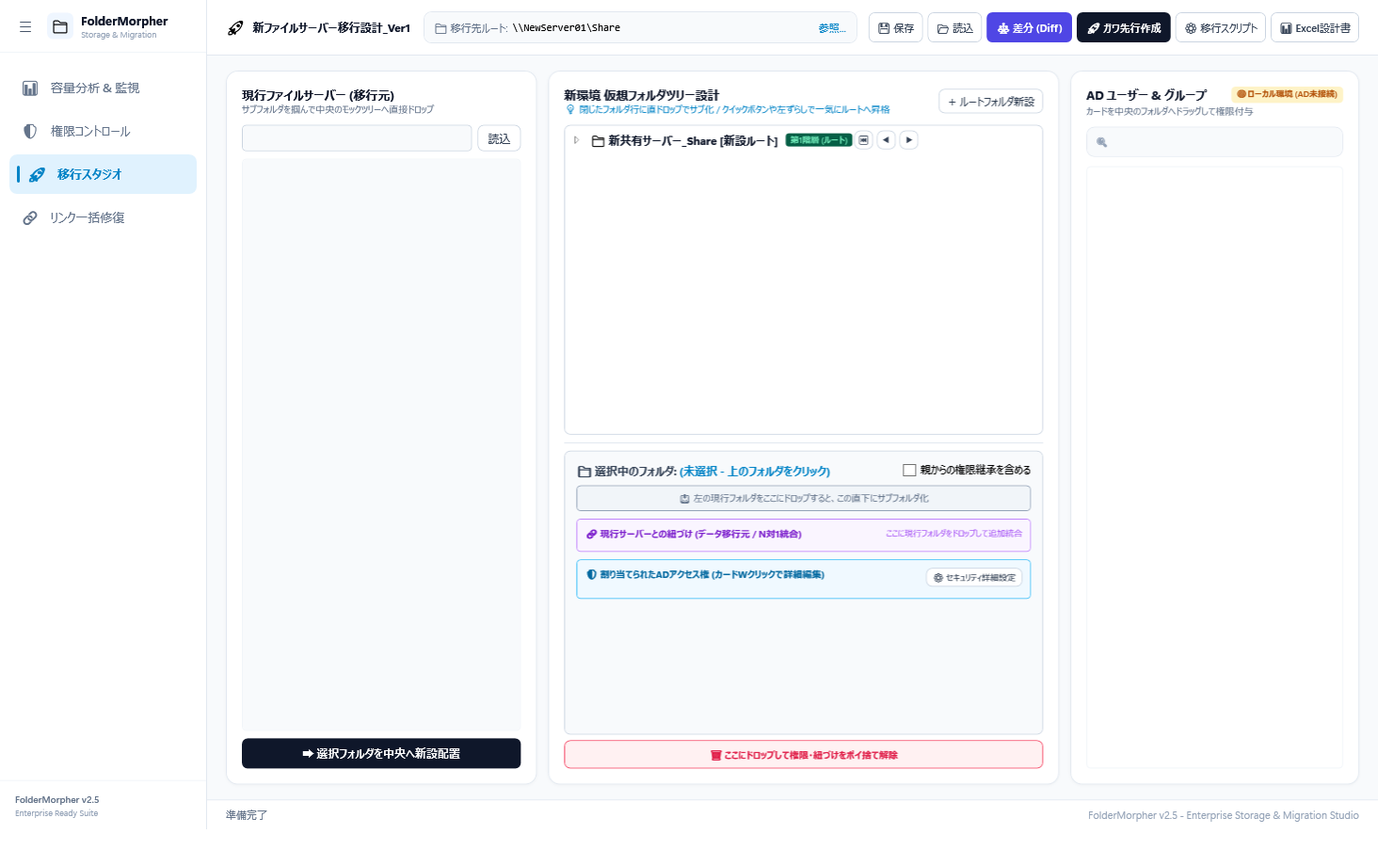
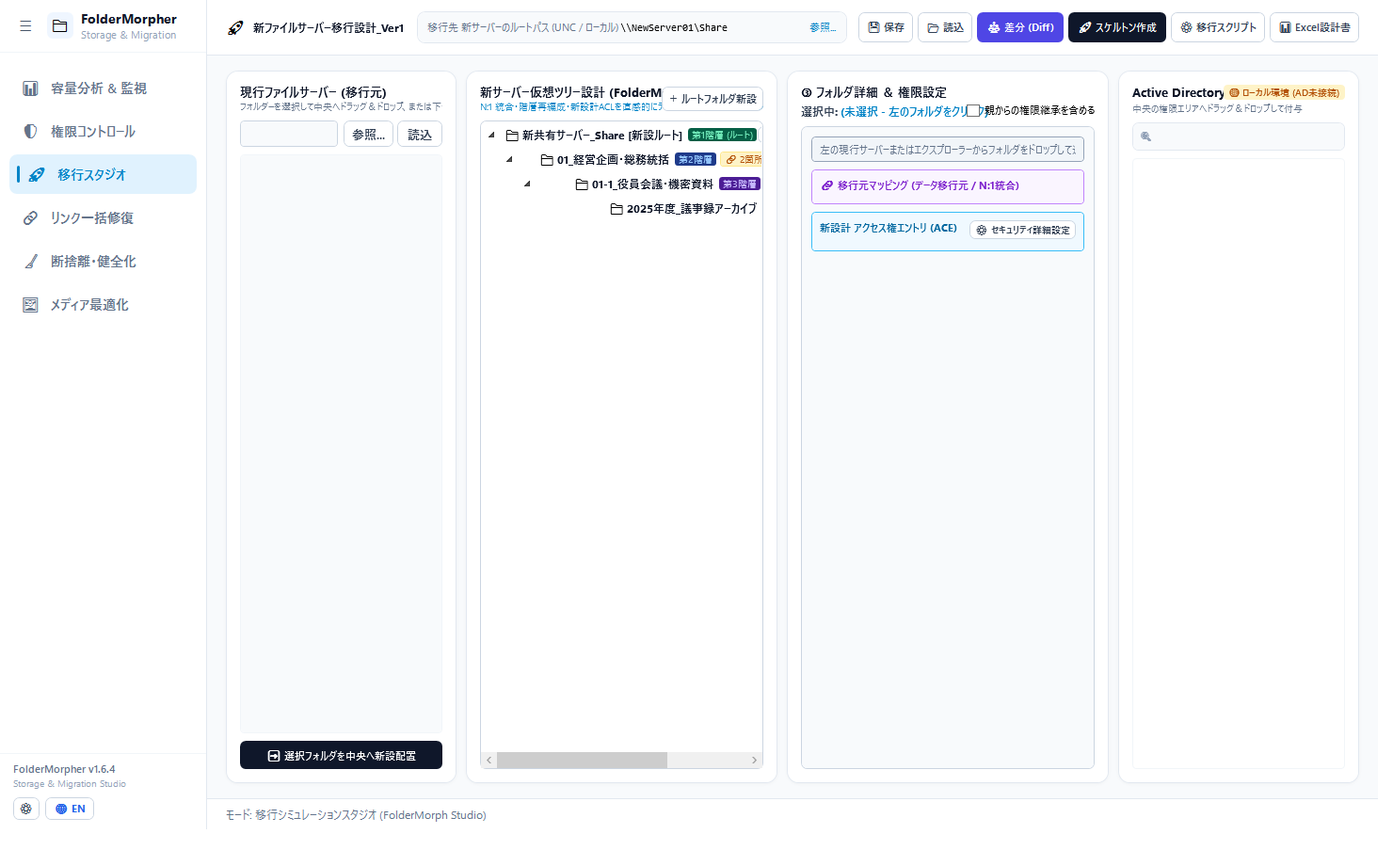
docs: Synchronize EN/JA README with v1.6.5 changes, philosophy & retake all 6 tab snapshots

diff --git a/README_JA.md b/README_JA.md
@@ -2,12 +2,12 @@
 ### (IT Admin Storage, Audit & Migration Studio)
 
 > **Windows ファイルサーバーの容量分析・NTFSアクセス権監査・フォルダ再編移行を 1 本で完結。**  
-> 大容量ファイルサーバーの日常監視から、組織改編・部署名リネーム、新環境への仮想ツリー設計、実環境NTFSアクセス権管理、切断ショートカット・Officeマクロ一括修復、写真の視覚的ロスレス90%軽量化までを**1本の単一EXE（インストール不要）**で完結させるプロフェッショナル向けGUIスタジオです。
+> 大容量ファイルサーバーの0秒ツリー監視から、組織改編・部署名リネーム、新環境への仮想ツリー設計、実環境NTFSアクセス権管理、切断ショートカット・Officeマクロ一括修復、写真の最大90%不可逆軽量化までを**1本の単一EXE（インストール不要）**で完結させるプロフェッショナル向けGUIスタジオです。
 
 ![Platform](https://img.shields.io/badge/Platform-Windows%2010%20%2F%2011%20%2F%20Server-blue.svg)
 ![Framework](https://img.shields.io/badge/.NET-8.0%20(Self--Contained)-purple.svg)
-![UI](https://img.shields.io/badge/UI-Fluent%20Light%20Design-0ea5e9.svg)
-![Architecture](https://img.shields.io/badge/License-Free%20Preview-emerald.svg)
+![UI](https://img.shields.io/badge/UI-Modern%20Fluent%20Design-0ea5e9.svg)
+![Architecture](https://img.shields.io/badge/Philosophy-Plan%20First%20%26%203--Stage%20Rocket-emerald.svg)
 
 🌐 **Language**: [🇺🇸 English (README.md)](README.md) | **[🇯🇵 日本語]**
 
@@ -25,39 +25,52 @@
 
 ---
 
+## 🛡 プロダクト操作哲学：二元論 ＆ 3段ロケット原則
+
+FolderMorpher は、管理者の探索スピードを最大限に引き上げつつ、ディスク書き込み時の安全性を100%保証する「二元論アーキテクチャ」を採用しています：
+
+| 区分 | 対象機能 | UX挙動 |
+| :--- | :--- | :--- |
+| **観測・生成系**<br>*(覗く・出力するだけ)* | • 容量スキャン ＆ 0秒ツリー参照<br>• AD逆引き実効アクセス権監査<br>• 休眠・重複ファイル棚卸し<br>• Excel / CSV 台帳出力<br>• 安全退避バッチ (.bat) ＆ GPOスクリプト (.ps1) 出力 | **ノーガード・即時実行**<br>(確認ダイアログやDry-runを挟まず、探索テンポを一切阻害しない) |
+| **介入系**<br>*(ディスク実態を変更する)* | • **権限コントロール（Live ACL直接変更）**<br>• **スケルトン先行展開（空フォルダ＋ACL作成）**<br>• **ショートカット一括修復（.lnk直接書き換え）**<br>• **メディア最適化（写真直接上書き縮小）** | **Plan First（3段ロケット）**<br>`[ チェック ]` ➔ モーダル **`⚖ 変更点`**（Before/After事前確認） ➔ `[ 適用 ]` ➔ カーネル実態 **Verify（自動検証）** |
+
+---
+
 ## 🌟 6大コア機能
 
-### 1. 📊 容量分析 & 監視 (Storage Explorer - TreeSizeスタイル)
+### 1. 📊 容量分析 & 監視 (Storage Explorer - 0秒ツリーキャッシュ)
 ![Tab 0: 容量分析](docs/screenshots/tab0_storage.png)
-- **⚡ 超高速NTFS MFT直読みスキャン & 3段ハイブリッド自動フォールバック (Experimental / 実験的機能)**: 管理者権限でのローカルNTFSドライブ（またはファイルサーバー上での直接実行時）において、ディスク管理領域（`$MFT`）を直接バイナリ解析し、数百万ファイルを数秒で一括インデックス。完全読み取り専用（`GENERIC_READ`・排他ロックなし）で業務影響ゼロ。UNC共有や一般権限時は自動で通常並行スキャンへシームレスにフォールバック。
+- **⚡ 0秒ツリーキャッシュ ＆ バックグラウンド自動差分スキャン**: スキャン開始時、前回キャッシュがあれば「0秒」で前回のツリー構造を即座に全展開。バックグラウンドで最新走査を実行し、容量が変化したフォルダに増減バッジ（`▲ +2.4GB` / `▼ -500MB`）を自動付与。
+- **⚡ 超高速NTFS MFT直読みスキャン & 3段ハイブリッド自動フォールバック**: 管理者権限でのローカルNTFSドライブ（またはファイルサーバー直接実行時）において、ディスク管理領域（`$MFT`）を直接バイナリ解析し、数百万ファイルを数秒で一括インデックス。完全読み取り専用（`GENERIC_READ`・排他ロックなし）。UNC共有や一般権限時は自動で通常並行スキャンへシームレスにフォールバック。
 - **全体占有率メーター（二重加算防止）**: スキャンルート全体（100%）に対する絶対シェアと、右ペインでの選択フォルダ直下シェアを完全分離。
 - **Top 10 ランキング ＆ エクスプローラー直行**: 肥大化の元凶ファイルを特定し、ダブルクリックで対象ファイルを青く選択した状態でエクスプローラーを即時起動。
 - **マルチタブ同時スキャン**: 複数ドライブや別サーバー（UNC共有 `\\server\share`）を並行監視。
 
 ---
 
-### 2. 🛡 権限コントロール & SDDLロールバック (Live ACL)
+### 2. 🛡 権限コントロール & 逆引き監査 (Live ACL Studio)
 ![Tab 1: Live ACL](docs/screenshots/tab1_liveacl.png)
-- **実環境NTFS権限の直接編集**: Active Directoryのアカウント・グループをドラッグ＆ドロップで追加、ゴミ箱ゾーンへポイ捨て削除。
-- **🔍 ユーザー/グループ逆引き権限インスペクター（Canonical DACL評価・多重入れ子ADグループ完全対応）**: 対象ユーザーやセキュリティグループを選択し、ファイルサーバー全体を逆引きスキャン（探索階層は無制限/指定可能）。グループの多重ネスト（`LDAP_MATCHING_RULE_IN_CHAIN` / tokenGroups による深い階層所属）を本人ID汚染なしで完全解決。Windowsの正規DACL評価順序（子の明示的Allowは親の継承Denyより優先）を忠実に再現し、そのユーザーが「実際にアクセスできる全フォルダー」と権限種別（フルコン/変更/読取）、付与経路（直接 or 経由グループ＋入れ子深度）を完全可視化。UNC共有アクセス時のSMB共有注意喚起、エクスプローラー直行ハイパーリンク付きExcel監査台帳を1クリック生成。
-- **Windows詳細セキュリティ完全準拠**: 基本6項目 ＋ 高度なアクセス許可14項目（走査/属性/所有権など）を完全双方向連動で編集（Allow および Deny ルールを標準ACL評価順序で正しくサポート）。
-- **SDDL直前自動スナップショット（即座に復元）**: 適用直前の権限状態を自動退避。「↩ バックアップ復元」でいつでも直前の状態へ原子的ロールバック可能。
-- **アクセス権マトリクス台帳CSV出力**: 監査用の権限台帳を1クリック出力。
+- **`AclChangePlan` パイプライン貫通**: 差分プレビューと本番適用で同一の実行計画インスタンスを貫通させ、PreviewとCommitのロジック乖離を物理的に根絶。
+- **縦一列 2行カードUI**: 1行目にアカウント表示名を横幅100%開放、2行目にアカウントID、権限、適用先、🔒継承バッジを整列。ADパレットからのD&D追加、枠外ドロップによる直感的解除を完備。
+- **継承変更警告バナー**: 継承を無効化する際、親から明示ACEへ昇格・保持される件数を明示し、重大なアクセス権遮断事故を事前警告。
+- **セマンティック正常性検証 (True Verify)**: 適用直後、OSカーネルから再取得した実態ACEと期待値を多重集合突合し、完全一致（`✅ 正常`）を自動検証。
+- **🔍 ユーザー/グループ逆引き権限インスペクター（Canonical DACL評価・多重入れ子ADグループ完全対応）**: 対象ユーザーやセキュリティグループを選択し、ファイルサーバー全体を逆引きスキャン（探索階層は無制限/指定可能）。グループの多重ネスト（`LDAP_MATCHING_RULE_IN_CHAIN` / tokenGroups）を本人ID汚染なしで完全解決。Windowsの正規DACL評価順序（子の明示的Allowは親の継承Denyより優先）を忠実に再現し、実際にアクセスできる全フォルダーと権限種別、付与経路を可視化。ハイパーリンク付きExcel監査台帳を1クリック生成。
+- **SDDL直前自動スナップショット（即座に復元）**: 適用直前の完全なDACL SDDLを自動退避。「↩ バックアップ復元」でいつでも直前の状態へ原子的ロールバック可能。
 
 ---
 
-### 3. 🚀 移行スタジオ & ガワ先行展開 (Simulation Studio)
+### 3. 🚀 移行スタジオ & スケルトン先行展開 (Simulation Studio)
 ![Tab 2: 移行スタジオ](docs/screenshots/tab2_simulation.png)
-- **仮想ツリー設計 ＆ N:1統合マッピング**: 「旧営業A」「旧営業B」を新環境の「営業第一部」へまとめる統合ツリーを視覚的に設計。
-- **ガワ先行作成（スケルトン一括展開）**: 大容量データ転送の前に、空フォルダ構造と設計済みNTFS ACLだけを新サーバーに先行作成。
-- **Diffインスペクター**: 移行前後（Before/After）の変化点（新規・移動・統合・ACL差分）をカラーバッジでレビュー。
-- **Robocopy自動生成**: 最適化されたマルチスレッド移行バッチ（`/MT:16 /COPYALL`）を1クリック生成。
+- **仮想ツリー設計 ＆ N:1統合マッピング**: 「旧営業A」「旧営業B」を新環境の「営業第一部」へまとめる統合ツリーを視覚的に設計。階層フォルダの再帰的D&DとACL自動引き継ぎに対応。
+- **スケルトン先行展開（ガワ先行作成）**: 大容量データ転送の前に、空フォルダ構造と設計済みNTFS ACLだけを新サーバーに先行作成。モーダル **`⚖ 変更点`** で差分を確認後に `[ ⚡ 適用 ]` し、実在Verify。
+- **Diffインスペクター**: 移行前後（Before/After）の変化点（新規・移動・統合・ACL差分）をカラーバッジでレビューし、Excel出力。
+- **Robocopyモード分離**: 「新設計ACL維持モード（`/COPY:DAT`）」と「旧環境ACL完全維持モード（`/COPYALL`）」を明示分離し、新設計ACLの上書き破壊を防止。
 
 ---
 
 ### 4. 🔗 リンク一括修復 ＆ GPOスクリプト生成 (LinkFixer)
 ![Tab 3: リンク一括修復](docs/screenshots/tab3_linkfix.png)
-- **切断ショートカット（`.lnk`）の一括救済**: サーバー移行や部署名変更で切断されたショートカットを新パスへ自動書き換え（`.bak` 自動バックアップ）。
+- **切断ショートカット（`.lnk`）の一括直接修復**: モーダル **`⚖ 変更点`** で置換対象と新旧パスを確認し、`.bak` 安全バックアップを自動生成しながら直接書き換え ➔ 実態Verify。
 - **Office内部リンク・マクロ修復**: Office COMを起動せず、OpenXML（.xlsx/.xlsm）内部XMLを直接高速走査。外部ブック参照数式やワークシートリンクを安全置換、VBA内の旧UNCパスを検知・警告（`~$` ロック検知付き）。
 - **GPOログオンスクリプト生成（`.ps1`）**: 全社PCのデスクトップ・マイドキュメント等のショートカットをサイレント一括修復する管理者用スクリプトをワンクリック生成。
 
@@ -66,25 +79,27 @@
 ### 5. 🧹 断捨離・健全化 (Audit & Hygiene - 大容量ストレージ監査)
 ![Tab 4: 断捨離・健全化](docs/screenshots/tab4_audit.png)
 - **重複ファイル・休眠ファイルの徹底抽出**:
-  - **重複ファイル検出**: ファイルサイズ絞り込み ➔ SHA256ハッシュ判定による完全一致判定。無駄容量を算出。
+  - **重複ファイル検出**: ファイルサイズ絞り込み ➔ SHA256暗号学的ハッシュによる完全一致判定。無駄容量を算出。
   - **休眠ファイル抽出**: 3年以上更新されていない放置データ（最終更新日時基準）を抽出。
   - **パス長（260字超）＆ 移行禁則文字チェック**: クラウド（SharePoint/Box）やWindows移行でエラーになる記号や長大パスを事前洗い出し。
-- **安全第一の運用ポリシー**: ツールによる自動削除は行わず、各部署提出用の**「棚卸し台帳（Excel/CSV）」**および**「安全退避（Archive移動）バッチ」**の生成に留めます（※重複原本は必ず現場に残す安全保護ガード付き）。
+- **スマート一括選択 ＆ 原本候補保護聖域**: 重複原本（`IsOriginalCandidate`）を厳格に保護しながらコピーファイルのみを一括選択。
+- **原本保護安全ガード付き物理完全削除**: チェックされた不要ファイルを直接完全削除（読み取り専用属性解除・原本候補除外警告ダイアログ付き）。
+- **安全第一の運用ポリシー**: 各部署提出用の**「棚卸し台帳（Excel/CSV）」**および**「安全退避（Archive移動）バッチ」**を1クリック生成。
 
 ---
 
 ### 6. 🖼 メディア・オプティマイザ (Media Optimizer)
 ![Tab 5: メディア最適化](docs/screenshots/tab5_media.png)
 - **聖域保護（自動スキップ）**: `_Master`, `印刷用`, `RAW`, `.psd`, `.ai` などのフォルダ名・プロ用拡張子は自動スキップ。
-- **写真の視覚的ロスレス軽量化**: スマホ写真（JPEG）を長辺2560px・85%品質で直接上書き軽量化（**約90%の容量削減**）。PNGはアルファ透過を100%保持した最適化を実行。撮影日時・更新日時・作成日時・Exif・回転情報を可能な限り保持。
+- **写真・画像の直接上書き最適化**: スマホ写真（JPEG）を長辺2560px・85%品質で直接上書き軽量化（**約90%の容量削減**）。PNGはアルファ透過を100%保持した最適化を実行。撮影日時・更新日時・作成日時・Exif・回転情報を完全保持。
+- **事前チェック ＆ 実態Verify**: モーダル **`⚖ 変更点`** で対象写真と聖域除外数を確認して適用、削減容量を自動検証。
 - **巨大モンスター動画Topランキング**: ギガ単位を消費する動画ファイルを容量順に抽出し、**夜間GPUエンコード（H.265 / NVENC / QSV）バッチ**を出力。
-
 
 ---
 
 ### 7. 📊 エグゼクティブExcelレポート出力
 - PCにOffice/Excelがインストールされていない環境でも動作（ClosedXMLベース）。
-- エグゼクティブサマリー、KPIカード、課題別集計、オートフィルター付き。
+- エグゼクティブサマリー、KPIカード、課題別集計、オートフィルター、モダンボーダーレスデザイン。
 - **完全パスのセルをクリックすると、エクスプローラーでそのフォルダが直接開く `file:///` ハイパーリンクを自動埋め込み**。
 
 ---
@@ -103,12 +118,13 @@
 
 ## 🛠 技術スタック & アーキテクチャ
 
-- **言語 / ランタイム**: C# 12 / .NET 8.0 Windows Desktop SDK (Self-Contained)
-- **UIフレームワーク**: WPF (Windows Presentation Foundation) / Fluent Design
+- **言語 / ランタイム**: C# 12 / .NET 8.0 Windows Desktop SDK (Self-Contained 単一実行ファイル)
+- **UIフレームワーク**: WPF (Windows Presentation Foundation) / Modern Fluent Light Design
 - **ディレクトリサービス**: `System.DirectoryServices` (LDAP / ADSI)
 - **セキュリティ**: `System.Security.AccessControl` (NTFS ACL / SDDL)
 - **Excel生成**: `ClosedXML` (OpenXML直接バイナリ生成)
 - **画像エンジン**: WIC (Windows Imaging Component / ハードウェアアクセラレーション)
+- **品質保証ゲート**: 全24項目のヘッドレス自動回帰テストスイート（`--test-regression`）による常時検証。
 - **アーキテクチャ規約**: [`AGENTS.md`](AGENTS.md) にてサービス層とUI層を疎結合に保つADR（設計判断）を厳格に管理。
 
 ---
@@ -140,5 +156,4 @@
 
 ## 📄 免責事項 (Disclaimer)
 
-FolderMorpher はファイルサーバーの調査・移行・管理を支援する管理者向けユーティリティです。安全設計（SDDL自動ロールバック復元、`.bak` バックアップ生成、ステージング退避移動など）を実装していますが、本ソフトウェアは現状有姿（AS IS）で提供され、いかなる保証も伴いません。本番ファイルサーバーで一括操作を実行する際は、必ず事前にバックアップを確保した上でご活用ください。
-
+FolderMorpher はファイルサーバーの調査・移行・管理を支援する管理者向けユーティリティです。ディスク実態を変更するすべての操作には、Plan-First 3段ロケット原則（「`⚖ 変更点`」モーダル事前確認、SDDL自動ロールバック復元、`.bak` バックアップ生成、原本保護安全ガードなど）を厳格に実装していますが、本ソフトウェアは現状有姿（AS IS）で提供され、いかなる保証も伴いません。本番ファイルサーバーで一括操作を実行する際は、必ず事前にバックアップを確保した上でご活用ください。

diff --git a/README.md b/README.md
@@ -1,12 +1,12 @@
 # 🚀 FolderMorpher — Enterprise IT Storage, Audit & Migration Studio
 
 > **Complete Windows file server storage analysis, NTFS permission auditing, and migration restructuring in a single portable tool.**  
-> An all-in-one, zero-dependency, portable Windows GUI studio built for SysAdmins and IT teams. Handles disk space monitoring, virtual tree redesign (N:1 mapping), live NTFS permissions with SDDL rollback, broken shortcut/Office macro path fixes, image optimization with alpha preservation, and executive Excel audit reporting.
+> An all-in-one, zero-dependency, portable Windows GUI studio built for SysAdmins and IT teams. Handles disk space monitoring with 0-second cache, virtual tree redesign (N:1 mapping), live NTFS permissions with SDDL rollback, broken shortcut/Office link fixes, image optimization with sanctuary guards, and executive Excel audit reporting.
 
 ![Platform](https://img.shields.io/badge/Platform-Windows%2010%20%2F%2011%20%2F%20Server-blue.svg)
 ![Framework](https://img.shields.io/badge/.NET-8.0%20(Self--Contained)-purple.svg)
-![UI](https://img.shields.io/badge/UI-Fluent%20Light%20Design-0ea5e9.svg)
-![Architecture](https://img.shields.io/badge/License-Free%20Preview-emerald.svg)
+![UI](https://img.shields.io/badge/UI-Modern%20Fluent%20Design-0ea5e9.svg)
+![Architecture](https://img.shields.io/badge/Philosophy-Plan%20First%20%26%203--Stage%20Rocket-emerald.svg)
 
 🌐 **Language**: **[🇺🇸 English]** | [🇯🇵 日本語 (README_JA.md)](README_JA.md)
 
@@ -25,66 +25,79 @@ Please submit your feedback or bug reports via [GitHub Issues](../../issues)!
 
 ---
 
+## 🛡 Core Operational Philosophy: Two Worlds & 3-Stage Rocket
+
+FolderMorpher enforces a strict operational dualism designed to keep SysAdmins fast during exploration and 100% safe during state mutations:
+
+| Category | Targeted Actions | UX Behavior |
+| :--- | :--- | :--- |
+| **Observation & Generation**<br>*(Read-Only & Script Export)* | • Storage scanning & 0s tree navigation<br>• AD reverse effective access auditing<br>• Dormant & duplicate file inventory<br>• Executive Excel / CSV ledger export<br>• Archive script (.bat) & GPO script (.ps1) export | **Instant Execution**<br>(No blocking dialogs or dry-run steps — zero friction during administrative exploration) |
+| **Mutation & Intervention**<br>*(State-Altering Disk Writes)* | • **Live ACL Direct Commit**<br>• **Skeleton Tree Deployment**<br>• **Direct Shortcut In-Place Repair**<br>• **Photo Overwrite Optimization** | **Plan First (3-Stage Rocket)**<br>`[ Check ]` ➔ Modal **`⚖ Changes`** (Before/After preview) ➔ `[ Apply ]` ➔ Automatic Semantic **Verify** |
+
+---
+
 ## 🌟 6 Core Pillars
 
-### 1. 📊 Storage Explorer (TreeSize-Inspired Disk Space Analyzer)
+### 1. 📊 Storage Explorer (File Server Capacity & 0-Second Tree Cache)
 ![Tab 0: Storage Explorer](docs/screenshots/tab0_storage.png)
-- **⚡ Ultra-Fast MFT Direct Scanning & Hybrid Fallback (Experimental)**: Direct binary parsing of NTFS Master File Table (`$MFT`) with non-exclusive read-only handles (`GENERIC_READ`). Indexes millions of files in seconds on local/server drives with automatic 3-tier fallback to parallel recursive scanning for network shares (UNC) and standard permissions.
+- **⚡ 0-Second Tree Cache & Background Auto-Diff**: Instantly restores previous directory hierarchies in 0 seconds from local/shared cache while running background network scans. Automatically tags changed folders with growth/reduction badges (`▲ +2.4GB` / `▼ -500MB`).
+- **⚡ Ultra-Fast MFT Direct Scanning & Hybrid Fallback**: Direct binary parsing of NTFS Master File Table (`$MFT`) with non-exclusive read-only handles (`GENERIC_READ`). Indexes millions of files in seconds on local/server drives with automatic 3-tier fallback to parallel recursive scanning for network shares (UNC).
 - **Root-Relative Occupancy Meter (Anti-Double Counting)**: Percentage reflects absolute share of the scanned root, separated cleanly from subfolder shares.
 - **Top 10 Largest Files & Explorer Highlight**: Instantly locate massive space-hogging files. Double-click to reveal and highlight directly in Windows Explorer.
 - **Multi-Tab Simultaneous Scanning**: Scan and monitor multiple local drives and UNC network shares (`\\server\share`) side-by-side.
 
 ---
 
-### 2. 🛡 Live ACL Manager & SDDL Instant Rollback
-![Tab 1: Live ACL](docs/screenshots/tab1_liveacl.png)
-- **Direct NTFS Permission Control**: Drag-and-drop Active Directory accounts/groups, trash zone to delete, without opening sluggish RSAT/ADUC.
-- **🔍 Reverse NTFS Effective Access Inspector (Multi-Level Nested AD Groups & Canonical DACL)**: Select any AD user or security group to reverse-scan entire file servers with configurable/unlimited search depth. Recursively resolves deeply nested AD group memberships (via `LDAP_MATCHING_RULE_IN_CHAIN` / tokenGroups) with zero user-identity contamination. Evaluates true Windows Canonical DACL Ordering (Explicit Allow takes precedence over Inherited Deny) to uncover every folder the user can reach (Full Control, Modify, Read) with exact grant path tracing, UNC share permission notices, and one-click Excel compliance reporting.
-- **Full Windows Security Modal Fidelity**: Real-time two-way sync between standard basic permissions (6 items) and advanced NTFS permission bits (14 granular items: Traversal, Extended Attributes, Ownership, etc.) supporting both Allow and Deny rules in Canonical ACL Ordering.
-- **Atomic Pre-Apply SDDL Snapshot & 1-Click Rollback**: Automatically backs up full SDDL string prior to commit. Instant one-click rollback if accidental lockouts occur.
-- **Access Permission Matrix CSV Export**: Generate compliance-ready audit tables in one click.
+### 2. 🛡 Live ACL Studio (NTFS Control & Reverse Effective Access)
+![Tab 1: Live ACL Studio](docs/screenshots/tab1_liveacl.png)
+- **`AclChangePlan` Pipeline**: Unified single-instance plan from dry-run preview to commit. Eliminates discrepancies between preview and actual execution.
+- **2-Row Modern List Card UI**: Clean vertical cards displaying Account Name on row 1 with full width, and Identity, Rights, AppliesTo, and 🔒Inherited badges on row 2. Drag accounts from the AD palette, or drag out-of-bounds to safely discard.
+- **Inheritance Transition Warning Banner**: Prominently warns when disabling inheritance, displaying the exact count of inherited ACEs being promoted to explicit entries to prevent unintended access loss.
+- **True Semantic Verification (Verify)**: Post-commit, re-reads native NTFS ACL from the OS kernel and verifies 100% semantic equivalence against expected ACE rules.
+- **🔍 Reverse Effective Access Inspector (Canonical DACL & Multi-Level Nested AD Groups)**: Resolves deep AD security group nesting (via `LDAP_MATCHING_RULE_IN_CHAIN` / tokenGroups) without identity contamination. Accurately evaluates Windows Canonical DACL Ordering (Explicit Allow takes precedence over Inherited Deny) with exact grant path tracing and one-click Excel audit reporting.
+- **SDDL Instant Snapshot & 1-Click Rollback**: Backs up native DACL SDDL prior to commit for instant atomic recovery.
 
 ---
 
-### 3. 🚀 Migration Simulation Studio (Skeleton Deployment)
+### 3. 🚀 Simulation Studio (Virtual Tree Design & Skeleton Deployment)
 ![Tab 2: Simulation Studio](docs/screenshots/tab2_simulation.png)
-- **Virtual Tree Design & N:1 Folder Consolidation**: Map legacy departmental structures (e.g. `Sales_East` + `Sales_West` ➔ `Sales_Dept`) visually via drag-and-drop.
-- **Skeleton Deploy (Gawa Pre-Creation)**: Pre-deploy the target folder hierarchy with designed NTFS ACLs *before* kicking off massive data copy jobs.
-- **Visual Diff Inspector**: Color-coded badges for New, Moved, Merged, and Permission Deltas with Excel export.
-- **Optimized Robocopy Batch Generation**: Automatically outputs high-throughput multi-threaded scripts (`/MT:16 /COPYALL`).
+- **Virtual Tree Design & N:1 Folder Consolidation**: Map legacy departmental structures (e.g. `Sales_East` + `Sales_West` ➔ `Sales_Dept`) visually via drag-and-drop with recursive ACL inheritance.
+- **Skeleton Deploy (Pre-Creation)**: Pre-deploy empty folder hierarchies with designed NTFS ACLs *before* kicking off massive data copy jobs via the **`⚖ Changes`** review modal.
+- **Visual Diff Inspector**: Review New, Moved, Merged, and Permission Deltas with one-click ClosedXML export.
+- **Isolated Robocopy Modes**: Choose between "Preserve Designed ACLs Mode (`/COPY:DAT`)" or "Preserve Legacy ACLs Mode (`/COPYALL`)".
 
 ---
 
-### 4. 🔗 LinkFixer (Broken Shortcuts & Office Macro Repair)
+### 4. 🔗 LinkFixer (Broken Shortcuts & Office Link Repair)
 ![Tab 3: LinkFixer](docs/screenshots/tab3_linkfix.png)
-- **Mass Broken Shortcut (`.lnk`) Healing**: Repaths disconnected UNC targets to the new server across desktops, recent items, and start menus with `.bak` safety backups.
+- **Batch Shortcut (`.lnk`) In-Place Healing**: Review targeted shortcuts and old-to-new path replacements in the **`⚖ Changes`** modal, then batch-rewrite with automatic `.bak` safety backups.
 - **Headless Office Deep Inspection (`.xlsx`, `.xlsm`)**: Scans OpenXML packages and legacy BIFF streams without launching Office COM. Fixes broken external formula workbook links, worksheet references, and detects hardcoded VBA UNC paths with `~$` lock detection.
 - **Domain-Wide GPO Logon Script Generator (`.ps1`)**: Outputs ready-to-deploy PowerShell logon scripts to fix client PCs automatically at next login.
 
 ---
 
-### 5. 🧹 Audit & Hygiene (Enterprise Storage Audit)
+### 5. 🧹 Audit & Hygiene (Deduplication & Storage Governance)
 ![Tab 4: Audit & Hygiene](docs/screenshots/tab4_audit.png)
-- **Deduplication & Storage Cleanup**:
-  - **Duplicate Detection**: Size pre-filtering followed by cryptographic SHA256 verification.
-  - **Dormant Files**: Identifies stale files unmodified for 3+ years (LastWriteTime basis).
-  - **Path Limits (260+ Chars) & Invalid Character Audit**: Catches paths and illegal characters (`* : < > ? \ / | " # % { } ~ &`) that break Windows Explorer or Cloud migrations (SharePoint/Box).
-- **Safety First**: Zero automated deletions. Generates audit inventory sheets (Excel/CSV) and safe staged archive scripts (`move /Y` to archive shares, with duplicate original protection guarantees).
+- **Cryptographic Duplicate Detection**: Size pre-filtering followed by SHA256 cryptographic verification.
+- **Dormant Files**: Identifies stale files unmodified for 3+ years (LastWriteTime basis).
+- **Path Limits (260+ Chars) & Invalid Character Audit**: Catches paths and illegal characters (`* : < > ? \ / | " # % { } ~ &`) that break Windows Explorer or Cloud migrations (SharePoint/Box).
+- **Smart Selection & Original Candidate Sanctum**: Safely select duplicate copies while strictly protecting original candidate files (`IsOriginalCandidate`).
+- **Safety First**: Zero automated silent deletions. Generates audit inventory sheets (Excel/CSV), safe staged archive scripts (`move /Y` to archive shares), and guarded physical deletion with original file warnings.
 
 ---
 
-### 6. 🖼 Media Optimizer (Visually Lossless Image Slimmer & Video Top)
+### 6. 🖼 Media Optimizer (In-Place Image Slimmer & GPU Video Batch)
 ![Tab 5: Media Optimizer](docs/screenshots/tab5_media.png)
-- **Sanctuary Protection (Auto-Skip)**: Automatically protects designated master folders (`_Master`, `_Original`, `RAW`) and creative professional extensions (`.psd`, `.ai`, `.raw`).
-- **Visually Lossless Recompression**: Resizes 10MB+ camera snapshots to 2560px max dimension at 85% JPEG quality directly in-place, and optimized PNG compression preserving 100% alpha transparency. **Reduces photo weight by ~90%** while preserving EXIF metadata, timestamps, and orientation.
+- **Sanctuary Protection (Auto-Skip)**: Automatically protects designated master folders (`_Master`, `_Original`, `RAW`, `印刷用`) and professional formats (`.psd`, `.ai`, `.raw`).
+- **In-Place Image Optimization**: Resizes 10MB+ camera snapshots to 2560px max dimension at 85% JPEG quality directly in-place, and optimizes PNGs while preserving 100% alpha transparency. **Reduces photo weight by up to 90%** while preserving EXIF metadata, timestamps, and orientation.
+- **Dry-Run Changes Inspection**: Review affected files, settings, and sanctuary exclusions in the **`⚖ Changes`** modal before commit.
 - **Giant Video Ranker & Nightly GPU Batch**: Extracts multi-gigabyte video files and generates GPU-accelerated (NVENC/QSV H.265) overnight encoding batch scripts.
-
 
 ---
 
 ### 7. 📊 Executive Excel Reporting
 - Zero dependency on Microsoft Office installation (powered by ClosedXML).
-- Formatted executive summary cards, KPI highlights, auto-filters, and clean typography.
+- Formatted executive summary cards, KPI highlights, auto-filters, and clean borderless typography.
 - **Embedded `file:///` hyperlinked paths**: Clicking any path in Excel immediately opens the target parent folder in Windows Explorer.
 
 ---
@@ -104,11 +117,12 @@ Please submit your feedback or bug reports via [GitHub Issues](../../issues)!
 ## 🛠 Tech Stack & Architectural Guarantees
 
 - **Language & Runtime**: C# 12 / .NET 8.0 Windows Desktop SDK (Self-Contained single file)
-- **UI Framework**: WPF (Windows Presentation Foundation) / Fluent Design Architecture
+- **UI Framework**: WPF (Windows Presentation Foundation) / Fluent Light Design Architecture
 - **Directory Services**: `System.DirectoryServices` (LDAP / Direct ADSI queries)
 - **Security Interop**: `System.Security.AccessControl` (Native NTFS ACL / SDDL)
 - **Office Engine**: `ClosedXML` (Direct OpenXML packaging) & Headless ZipArchive
 - **Imaging Engine**: WIC (Windows Imaging Component / Hardware Accelerated)
+- **Headless Quality Assurance**: 24 automated regression tests (`--test-regression`) gating every release.
 - **Engineering Guidelines**: Strictly documented in [`AGENTS.md`](AGENTS.md) preserving decoupled service layers and ADR principles.
 
 ---
@@ -140,5 +154,4 @@ This project is open-source software licensed under the **[MIT License](LICENSE)
 
 ## 📄 Disclaimer
 
-FolderMorpher is an administrative utility designed for IT and storage professionals. While all operations modifying the file system include safety mechanisms (such as SDDL rollback snapshots, `.bak` file generation, and staged archive isolation), the software is provided "AS IS", without warranty of any kind. Always ensure verified backups exist before executing batch operations on production file servers.
-
+FolderMorpher is an administrative utility designed for IT and storage professionals. All operations modifying the file system strictly enforce the Plan-First 3-Stage Rocket protocol (interactive `⚖ Changes` review modals, SDDL rollback snapshots, `.bak` backups, and original file preservation guards). The software is provided "AS IS", without warranty of any kind. Always ensure verified backups exist before executing batch operations on production file servers.
